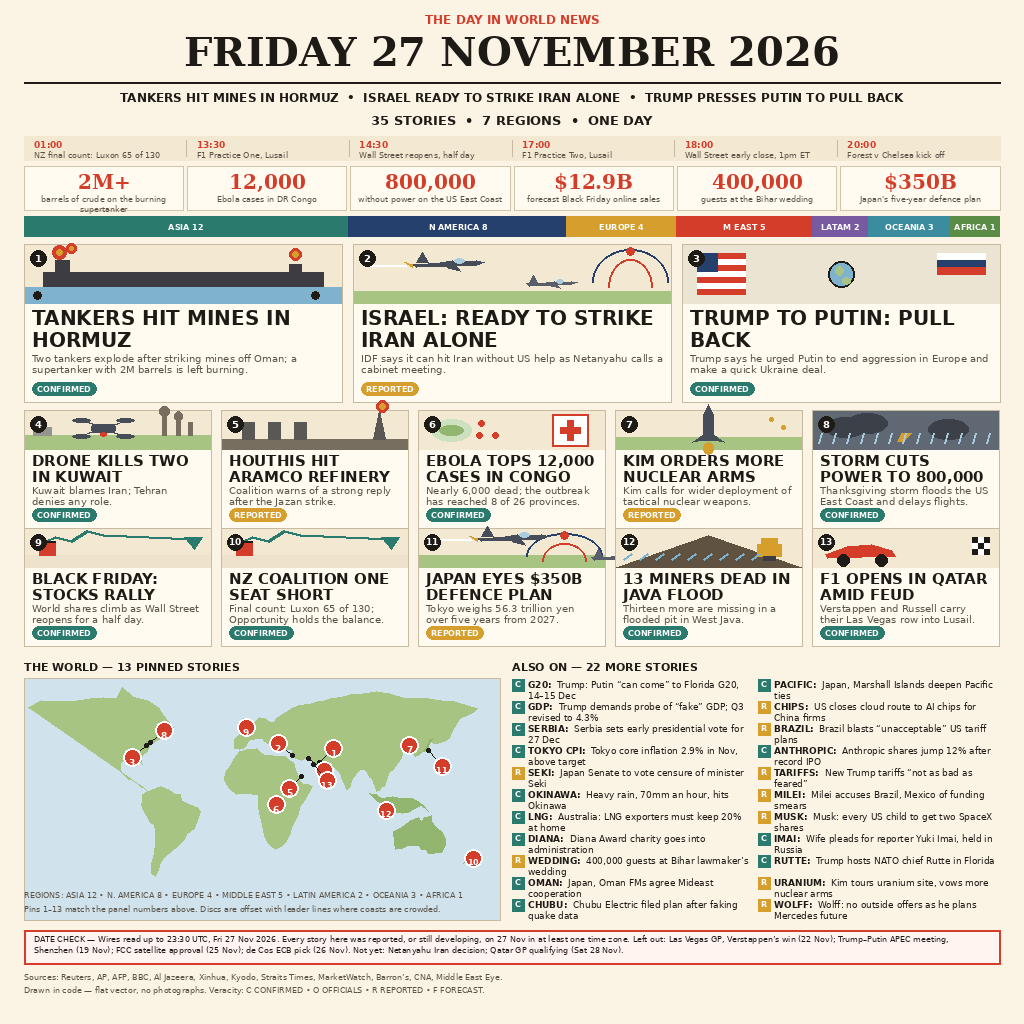
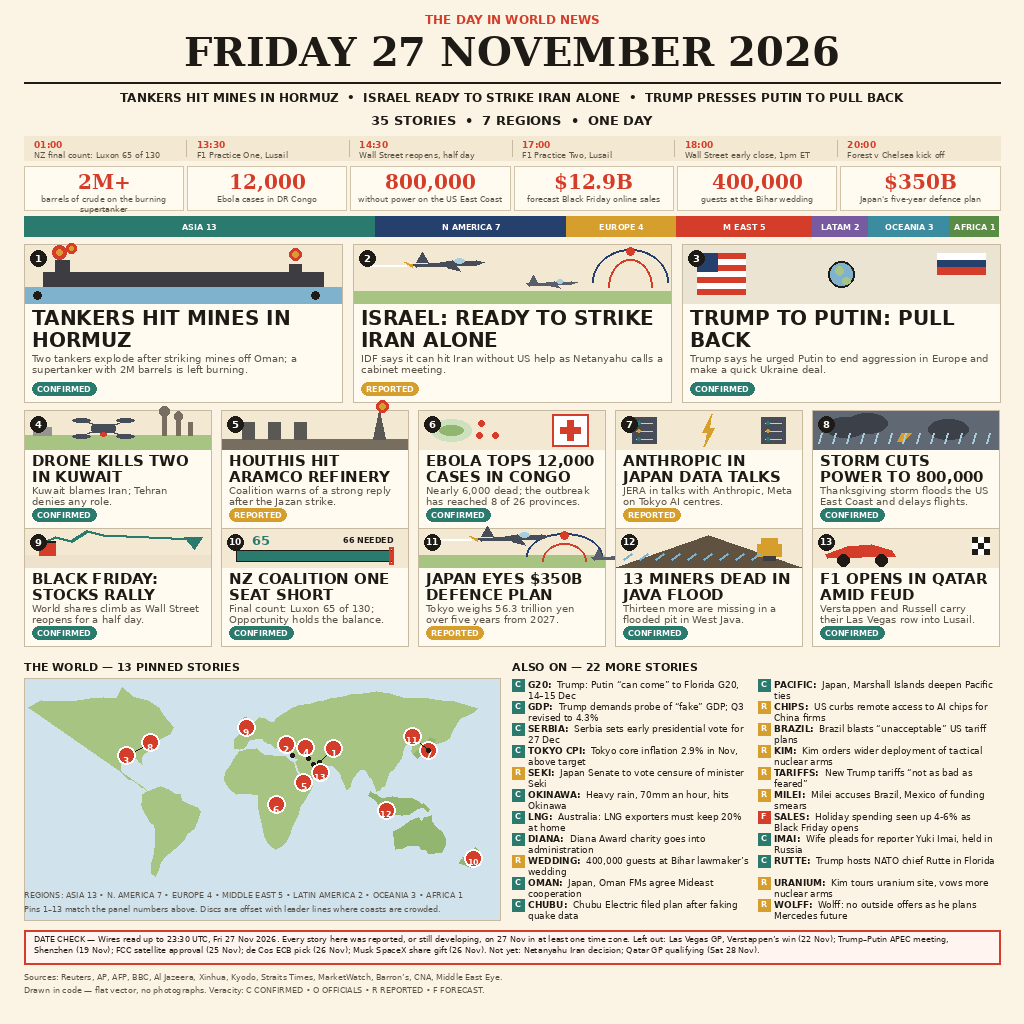
news-image-20261127 v4: fix map pins on land, breadth swap (Anthropic panel), verify NZ + MUSK dates

diff --git a/draw.py b/draw.py
@@ -59,16 +59,16 @@ PANELS = [
  dict(n=6, tag="C", region="Africa", lon=23.0, lat=-3.0, scene="ebola",
       head="EBOLA TOPS 12,000 CASES IN CONGO",
       deck="Nearly 6,000 dead; the outbreak has reached 8 of 26 provinces."),
- dict(n=7, tag="R", region="Asia", lon=125.8, lat=39.0, scene="missile",
-      head="KIM ORDERS MORE NUCLEAR ARMS",
-      deck="Kim calls for wider deployment of tactical nuclear weapons."),
+ dict(n=7, tag="R", region="Asia", lon=140.1, lat=35.6, scene="datacentre",
+      head="ANTHROPIC IN JAPAN DATA TALKS",
+      deck="JERA in talks with Anthropic, Meta on Tokyo AI centres."),
  dict(n=8, tag="C", region="North America", lon=-74.0, lat=40.7, scene="storm",
       head="STORM CUTS POWER TO 800,000",
       deck="Thanksgiving storm floods the US East Coast and delays flights."),
  dict(n=9, tag="C", region="Europe", lon=-0.1, lat=51.5, scene="chart",
       head="BLACK FRIDAY: STOCKS RALLY",
       deck="World shares climb as Wall Street reopens for a half day."),
- dict(n=10, tag="C", region="Oceania", lon=174.8, lat=-41.3, scene="chart",
+ dict(n=10, tag="C", region="Oceania", lon=174.8, lat=-41.3, scene="seats",
       head="NZ COALITION ONE SEAT SHORT",
       deck="Final count: Luxon 65 of 130; Opportunity holds the balance."),
  dict(n=11, tag="R", region="Asia", lon=139.7, lat=35.7, scene="jet",
@@ -96,12 +96,12 @@ ALSO = [
  ("C", "OMAN", "Japan, Oman FMs agree Mideast cooperation"),
  ("C", "CHUBU", "Chubu Electric filed plan after faking quake data"),
  ("C", "PACIFIC", "Japan, Marshall Islands deepen Pacific ties"),
- ("R", "CHIPS", "US closes cloud route to AI chips for China firms"),
+ ("R", "CHIPS", "US curbs remote access to AI chips for China firms"),
  ("R", "BRAZIL", "Brazil blasts \u201cunacceptable\u201d US tariff plans"),
- ("C", "ANTHROPIC", "Anthropic shares jump 12% after record IPO"),
+ ("R", "KIM", "Kim orders wider deployment of tactical nuclear arms"),
  ("R", "TARIFFS", "New Trump tariffs \u201cnot as bad as feared\u201d"),
  ("R", "MILEI", "Milei accuses Brazil, Mexico of funding smears"),
- ("R", "MUSK", "Musk: every US child to get two SpaceX shares"),
+ ("F", "SALES", "Holiday spending seen up 4-6% as Black Friday opens"),
  ("C", "IMAI", "Wife pleads for reporter Yuki Imai, held in Russia"),
  ("C", "RUTTE", "Trump hosts NATO chief Rutte in Florida"),
  ("R", "URANIUM", "Kim tours uranium site, vows more nuclear arms"),
@@ -129,11 +129,13 @@ TIMELINE = [
 TAG_FULL = {"C": "CONFIRMED", "O": "OFFICIALS", "R": "REPORTED", "F": "FORECAST"}
 TAG_COLOR = {"C": TEAL, "O": NAVY, "R": MUSTARD, "F": CORAL}
 
-# Pin disc offsets (dx, dy in px) to decluster crowded coasts.
-# No offset for 10 (Wellington is isolated). 11 is offset SE so its disc
-# clears pin 7 (Pyongyang); the leader line marks the true Tokyo point.
-PIN_OFF = {1: (14, -14), 2: (-14, -12), 3: (-14, 12), 4: (16, 12), 5: (-12, 12),
-           8: (14, -12), 9: (0, 0), 11: (14, 16), 13: (14, 16)}
+# Pin disc offsets (dx, dy in px). Every disc centre must sit on DRAWN land —
+# verified from the rendered map, never from lon/lat alone (v3 failed this:
+# pins 2/4/5/8/10/11/13 sat in sea or on the wrong landmass). Offsets move
+# discs onto nearby land with a leader line to the true point; 1/13 stay
+# separated by 27 px. 7 sits on Tokyo, 11 is offset NW to Manchuria.
+PIN_OFF = {1: (14, -14), 2: (-6, -11), 3: (-20, 10), 4: (-3, -11), 5: (2, 6),
+           11: (-16, -14), 13: (7, 8)}
 
 # ---------------------------------------------------------------- helpers
 def tw(d, text, font):
@@ -297,6 +299,33 @@ def scene(d, kind, x, y, w, h):
         d.polygon([(x + w - 26, y + 8), (x + w - 8, y + 8), (x + w - 16, y + 20)], fill=TEAL)
         d.rectangle([x + 14, y + h - 26, x + 30, y + h - 12], fill=CORAL)
         d.line([x + 14, y + h - 26, x + 30, y + h - 26], fill=INK, width=2)
+    elif kind == "seats":
+        # Parliament bar: 65 of the 66 needed — one coral seat short.
+        bx0, bw = x + 14, w - 28
+        # "65" sits right of the number badge (badge covers x+6..x+22).
+        d.text((x + 30, y + 3), "65", font=SANS_B(13), fill=TEAL)
+        d.text((bx0 + bw, y + 6), "66 NEEDED", font=SANS_B(8), fill=INK,
+               anchor="ra")
+        by = y + 21
+        d.rectangle([bx0, by, bx0 + bw, by + 11], fill=(255, 255, 255),
+                    outline=INK, width=1)
+        fill_w = int(bw * 65 / 66)
+        d.rectangle([bx0 + 1, by + 1, bx0 + fill_w, by + 10], fill=TEAL)
+        d.rectangle([bx0 + fill_w, by + 1, bx0 + bw - 1, by + 10], fill=CORAL)
+        d.rectangle([bx0 + fill_w - 1, by - 3, bx0 + fill_w + 3, by + 14],
+                    outline=CORAL, width=2)
+    elif kind == "datacentre":
+        # Two server racks + power bolt: AI data centres by the power plants.
+        for rx in (x + 16, x + w - 40):
+            d.rectangle([rx, cy - 13, rx + 24, cy + 13], fill=(70, 76, 88))
+            for sy in range(3):
+                d.line([rx + 4, cy - 7 + sy * 8, rx + 20, cy - 7 + sy * 8],
+                       fill=(200, 205, 210), width=1)
+                d.ellipse([rx + 5, cy - 9 + sy * 8, rx + 8, cy - 6 + sy * 8],
+                          fill=TEAL if sy % 2 == 0 else MUSTARD)
+        d.polygon([(cx + 3, cy - 16), (cx - 6, cy + 2), (cx - 1, cy + 2),
+                   (cx - 4, cy + 16), (cx + 6, cy - 2), (cx + 1, cy - 2)],
+                  fill=MUSTARD)
     elif kind == "rocket":
         d.polygon([(cx - 6, cy + 12), (cx - 6, cy - 12), (cx, cy - 24), (cx + 6, cy - 12),
                    (cx + 6, cy + 12)], fill=(235, 235, 230))
@@ -374,6 +403,20 @@ UK = [(-5,50),(-3,53),(-5,56),(-2,58),(0,53),(1,51)]
 JAPAN = [(130,31),(132,33),(135,34),(137,35),(139,36),(140,38),(141,40),(142,42),
  (143,44),(141,43),(140,40),(138,37),(136,35),(133,34),(131,32)]
 NZ = [(167,-45),(170,-42),(174,-40),(177,-38),(175,-37),(172,-41),(168,-44)]
+# Arabian peninsula (missing from the Eurasia outline above, which stops at
+# the Gulf coast — without it, Yemen/Saudi pins read as sea). Drawn in LAND.
+ARABIA = [(38,27),(39,24),(40,21),(42,18),(43,14),(44,12.5),(47,13),(50,14.5),
+ (53,16),(56,18),(58.5,20),(59,22.5),(57.5,25),(55,26),(52,26.5),(50.5,29),
+ (48,29.5),(45,29),(42,28),(39,28)]
+# Island chains drawn as fat lines so the discs can sit ON visible land:
+# Honshu (Tokyo), UK (London), NZ (Wellington), Indonesia (Java).
+JAPAN_LINE = [(130,31),(132,33),(134,34),(136,35),(138,35.5),(139.5,36.5),
+ (140.5,38.5),(141.5,40.5),(142.5,42.5),(143.5,44)]
+UK_LINE = [(-5,50),(-4,52),(-3,54),(-2,56),(-1,57.5),(0,54),(1,51.5)]
+NZ_NORTH = [(173,-36.5),(174.5,-38),(176,-39.5),(174.8,-41.2)]
+NZ_SOUTH = [(172.5,-40.5),(170.5,-42.5),(168.5,-44.5),(167.5,-46)]
+ISLANDS_LINE = [(95,5),(100,1),(104,-3),(107,-6.5),(111,-7.5),(115,-8.5),
+ (120,-9.5),(125,-9),(130,-5),(136,-4),(140,-7)]
 
 # ---------------------------------------------------------------- layout
 def main():
@@ -499,9 +542,14 @@ def main():
         return (mx0 + (lon - lon0) * mw / (lon1 - lon0),
                 my0 + (lat0 - lat) * mh / (lat0 - lat1))
     for poly, col in [(N_AMERICA, LAND), (AFRICA, LAND), (EURASIA, LAND),
-                      (ISLANDS, LAND2), (AUSTRALIA, LAND2), (UK, LAND2),
-                      (JAPAN, LAND2), (NZ, LAND2)]:
+                      (ARABIA, LAND), (ISLANDS, LAND2), (AUSTRALIA, LAND2),
+                      (UK, LAND2), (JAPAN, LAND2), (NZ, LAND2)]:
         d.polygon([proj(lo, la) for lo, la in poly], fill=col)
+    # Fat island lines so pin discs sit on visible land, not sea.
+    for line, wd in [(JAPAN_LINE, 7), (UK_LINE, 6), (NZ_NORTH, 12),
+                     (NZ_SOUTH, 12), (ISLANDS_LINE, 5)]:
+        d.line([proj(lo, la) for lo, la in line], fill=LAND2, width=wd,
+               joint="curve")
     # pins: leader line from true point to offset disc
     for p in PANELS:
         tx, ty = proj(p["lon"], p["lat"])
@@ -514,7 +562,7 @@ def main():
                   outline=(255, 255, 255), width=2)
         d.text((px, py - 1), str(p["n"]), font=SANS_B(9 if p["n"] < 10 else 8),
                fill=(255, 255, 255), anchor="ma")
-    d.text((X0, 890), "REGIONS: ASIA 12 \u2022 N. AMERICA 8 \u2022 EUROPE 4 \u2022 MIDDLE EAST 5 "
+    d.text((X0, 890), "REGIONS: ASIA 13 \u2022 N. AMERICA 7 \u2022 EUROPE 4 \u2022 MIDDLE EAST 5 "
            "\u2022 LATIN AMERICA 2 \u2022 OCEANIA 3 \u2022 AFRICA 1",
            font=SANS(8), fill=MUTED)
     d.text((X0, 904), "Pins 1\u201313 match the panel numbers above. Discs are offset with "
@@ -564,7 +612,7 @@ def main():
           "here was reported, or still developing, on 27 Nov in at least one time "
           "zone. Left out: Las Vegas GP, Verstappen\u2019s win (22 Nov); Trump\u2013Putin "
           "APEC meeting, Shenzhen (19 Nov); FCC satellite approval (25 Nov); de Cos "
-          "ECB pick (26 Nov). Not yet: Netanyahu Iran decision; Qatar GP qualifying "
+          "ECB pick (26 Nov); Musk SpaceX share gift (26 Nov). Not yet: Netanyahu Iran decision; Qatar GP qualifying "
           "(Sat 28 Nov).")
     dl = fit_check("datecheck", wrap(d, dc, SANS(8), CW - 24), 3)
     block(d, dl, SANS(8), X0 + 10, 934, leading=11)
@@ -582,7 +630,7 @@ def main():
 
 ALSO_REG = ["North America", "North America", "Europe", "Asia", "Asia", "Asia",
             "Oceania", "Europe", "Asia", "Asia", "Asia", "Oceania", "Asia",
-            "Latin America", "North America", "North America", "Latin America",
+            "Latin America", "Asia", "North America", "Latin America",
             "North America", "Asia", "North America", "Asia", "Europe"]
 
 if __name__ == "__main__":
